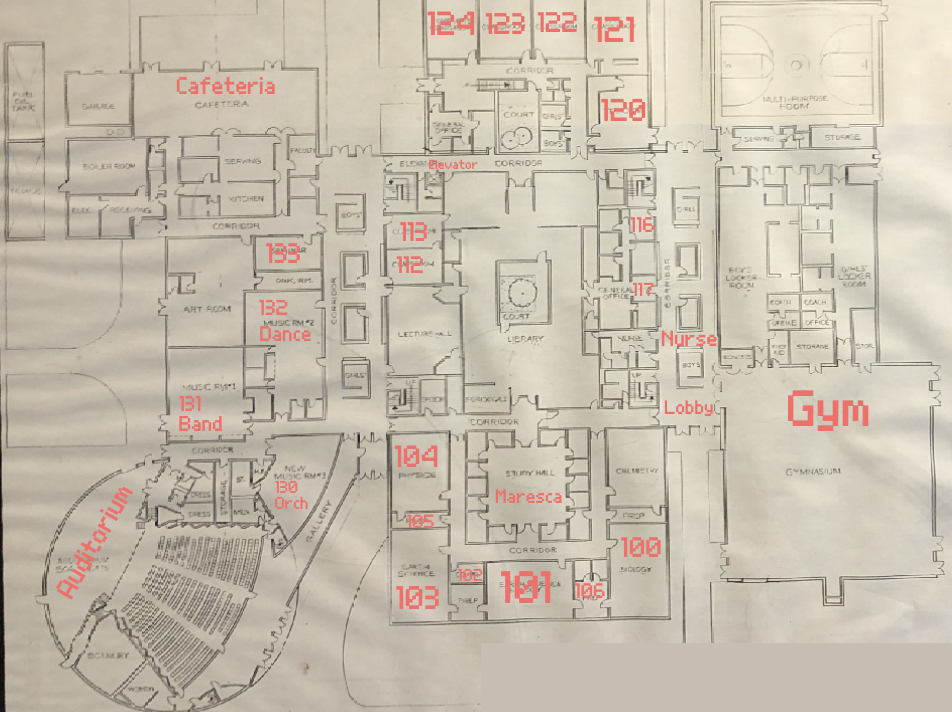
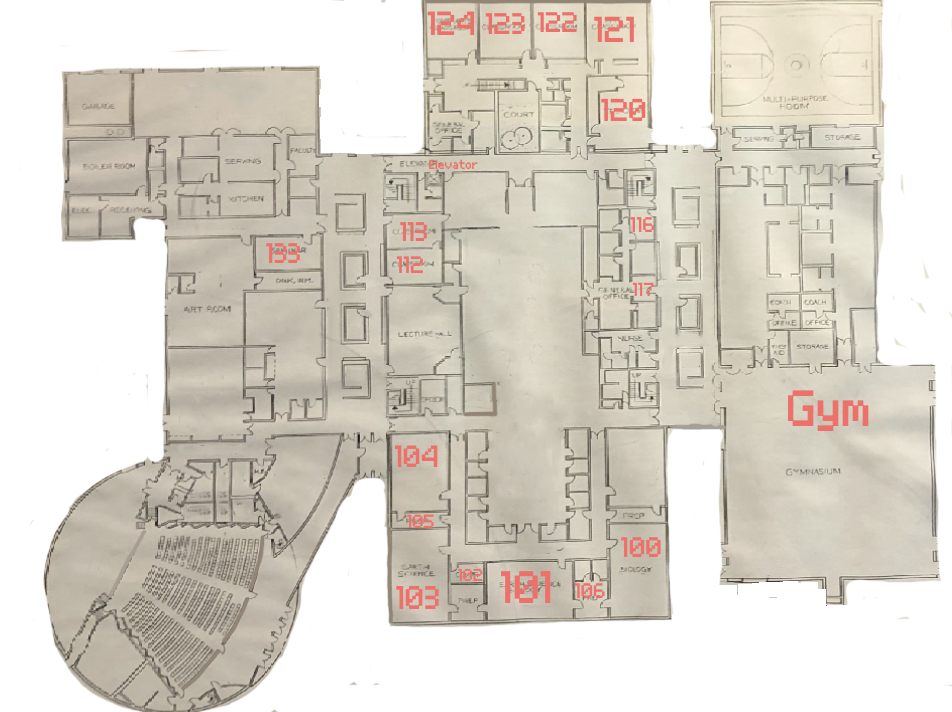
Add files via upload

diff --git a/query3.html b/query3.html
@@ -1,0 +1,105 @@
+<!DOCTYPE html>
+<html>
+    <head>
+        <title>Room Finder</title>
+        <link href = "styles.css" rel="stylesheet">        
+        <style>
+            #query {
+                background-color: rgb(220, 131, 15);
+                padding: 15px;
+                border-radius: 10px;
+                box-shadow: 0 10px 6px -1px rgba(0, 0, 0, 0.1);
+                text-align: center;
+                vertical-align: middle;
+            }
+            .room {
+                background-color: rgb(127, 49, 4);
+                margin-left: 20vw;
+                margin-right: 20vw;
+                margin-bottom: 20px;
+                padding: 5px;
+                border-radius: 30px;
+                box-shadow: 0 10px 6px -1px rgba(0, 0, 0, 0.1);
+            }
+            a {
+                color: white;
+            }
+            body {
+                padding: 10px;
+            }
+            #par {
+                padding-left: 20px;
+                padding-right: 20px;
+            }
+            #parr {
+                padding-left: 25px;
+                padding-right: 25px;
+            }
+            #placeholder_results {
+                background-color: rgb(79, 43, 13);
+                padding: 10px;
+                border-radius: 36px;
+            }
+        </style>
+        <meta name="viewport" content="width=device-width, initial-scale=1.0">
+    </head>
+    <body>
+        <div id="header"></div>
+        <div id="space"></div>
+        <br><br><br>
+        <h1 id="parr">Enter your destination</h1>
+        <h3 id="par">If your destination is on a different floor from your current location, please locate a set of stairs or an elevator to reach your desired floor.</h3>
+        <span id="searchTrigger" class="material-symbols-outlined iconLarge">search</span>
+        <input class="searchbar" id="searchBranch" placeholder="Search Room Finder">
+        <br>
+        <h3>--------</h3>
+        <br>
+        <div id="results"><h3><span id="placeholder_results">Search results will appear here</span></h3></div>
+
+    </body>
+    <script src="main.js"></script>
+    <script>
+        let trigger = document.getElementById("searchTrigger");
+        trigger.onclick = function() {
+            loadSearch();
+        };
+
+        document.getElementById("searchBranch").addEventListener("keydown", function(event) {
+            if (event.key === "Enter") {
+            event.preventDefault();
+            loadSearch();
+            }
+        });
+    </script>
+    <script>
+        function loadSearch() {
+            document.getElementById("results").innerHTML = "";
+            let queryVal = document.getElementById("searchBranch").value;
+            fetch('rooms.json')
+            .then(response => response.json())
+            .then(function(data) {
+                let content = "";
+                let floor = sessionStorage.getItem("locFloor");
+                for (let i = 0; i < data.length; i++) {
+                    if (data[i].name.toUpperCase().includes(queryVal.toUpperCase()) && data[i].floor == floor) {
+                        content += "k";
+                        document.getElementById("results").innerHTML += 
+                        `<div class="room">
+                            <h3>${data[i].name}</h3>
+                            <h5><span>Floor ${data[i].floor}</span></h5>
+                            <span id="goTrigger_${data[i].id}" class="material-symbols-outlined iconLarge2">check</span></div>`;
+                        setTimeout(function() {document.getElementById(`goTrigger_${data[i].id}`).onclick = function() {
+                            sessionStorage.setItem("loc1", `${data[i].id}`);
+                            sessionStorage.removeItem("searchQuery");
+                            window.location.href=`floor${data[i].floor}.html`;
+                        }}, 500);
+                    }
+                }
+
+                if (content.length == 0) {
+                    document.getElementById("results").innerHTML = "<h3>No results matched your search query, try again.</h3>";
+                }
+            })
+        }
+    </script>
+</html>

diff --git a/query.html b/query.html
@@ -34,8 +34,10 @@
         <h1>Searching:</h1>
         <h1><span id="query"></span></h1>
         <br>
-        <h3>Locate on Map <span class="material-symbols-outlined iconLarge2-label">pin_drop</span></h3>
-        <h3>Walk to Location <span class="material-symbols-outlined iconLarge2-label">directions_walk</span></h3>
+        <h3>Locate on Map: <span class="material-symbols-outlined iconLarge2-label">pin_drop</span></h3>
+        <h3>Walk to Location: <span class="material-symbols-outlined iconLarge2-label">directions_walk</span></h3>
+        <h3>Set to My Location: <span class="material-symbols-outlined iconLarge2-label">my_location</span></h3>
+
         <h3>--------</h3>
         <br>
         <div id="results"><h3>Loading...</h3></div>
@@ -62,6 +64,7 @@
                         <h5><span>Floor ${data[i].floor}</span></h5>
                          <span id="searchTrigger_${data[i].id}" class="material-symbols-outlined iconLarge2">pin_drop</span>
                          <span id="goTrigger_${data[i].id}" class="material-symbols-outlined iconLarge2">directions_walk</span>
+                         <span id="goTrigger2_${data[i].id}" class="material-symbols-outlined iconLarge2">my_location</span>
                         </div>`;
                     setTimeout(function() {document.getElementById(`searchTrigger_${data[i].id}`).onclick = function() {
                         sessionStorage.setItem("mapMode", "locate");
@@ -73,7 +76,13 @@
                         sessionStorage.setItem("loc1", `${data[i].id}`);
                         sessionStorage.setItem("locFloor", `${data[i].floor}`);
                         window.location.href=`query2.html`;
-                    }}, 1000);
+                    }}, 600);
+                    setTimeout(function() {document.getElementById(`goTrigger2_${data[i].id}`).onclick = function() {
+                        sessionStorage.setItem("mapMode", "pathfind");
+                        sessionStorage.setItem("loc2", `${data[i].id}`);
+                        sessionStorage.setItem("locFloor", `${data[i].floor}`);
+                        window.location.href=`query3.html`;
+                    }}, 600);
                 }
             }
 

diff --git a/floor1.html b/floor1.html
@@ -62,21 +62,22 @@
         shadowSize: [41, 41]
     });
 
-        const imageWidth = 314;
-        const imageHeight = 702;
+        // 952 × 712 pixels
+        const imageWidth = 952;
+        const imageHeight = 712;
 
         const bounds = [[0, 0], [imageHeight, imageWidth]];
 
         const map = L.map('map', {
             crs: L.CRS.Simple,
             minZoom: 0,
-            maxZoom: 2,
+            maxZoom: 0.75,
             maxBounds: bounds,
             maxBoundsViscosity: 1.0,
         });
 
 
-        const image = L.imageOverlay('images/map2.png', bounds).addTo(map);
+        const image = L.imageOverlay('images/map1.png', bounds).addTo(map);
         map.fitBounds(bounds);
 
 
@@ -90,12 +91,12 @@
                     let corrID = sessionStorage.getItem("loc1");
                     for (let i = 0; i < data.length; i++) {
                         //Leaflet uses [Y, X] order
-                        if (data[i].floor == 2 && data[i].id == corrID) {
+                        if (data[i].floor == 1 && data[i].id == corrID) {
                             L.marker([702-data[i].coordY, data[i].coordX-300], { icon: greenIcon })
                             .addTo(map)
                             .bindPopup(data[i].name);
                         }
-                        else if (data[i].floor == 2) {
+                        else if (data[i].floor == 1) {
                             L.marker([702-data[i].coordY, data[i].coordX-300])
                             .addTo(map)
                             .bindPopup(data[i].name);
@@ -111,7 +112,7 @@
                     var loc2 = sessionStorage.getItem("loc2");
                     for (let i = 0; i < data.length; i++) {
                         //Leaflet uses Y, X order!!!!
-                        if (data[i].floor == 2) {
+                        if (data[i].floor == 1)  {
                             if (data[i].id == loc1) {
                                 L.marker([702-data[i].coordY, data[i].coordX-300], { icon: greenIcon })
                                 .addTo(map)

diff --git a/styles.css b/styles.css
@@ -1,5 +1,5 @@
 @import url("https://fonts.googleapis.com/css2?family=Montserrat:wght@100..800");
-@import url("https://fonts.googleapis.com/css2?family=Material+Symbols+Outlined:opsz,wght,FILL,GRAD@20..48,600,0..1,-50..200&icon_names=check,chevron_left,directions_walk,pin_drop,search");
+@import url("https://fonts.googleapis.com/css2?family=Material+Symbols+Outlined:opsz,wght,FILL,GRAD@20..48,600,0..1,-50..200&icon_names=check,chevron_left,directions_walk,my_location,pin_drop,search");
 
 h1 {
     font-family: Rockwell, Montserrat;
@@ -75,6 +75,10 @@ body {
     user-select: none;
     -webkit-user-select: none;
     cursor: pointer;
+    transition: transform 1s;
+}
+.iconLarge:hover {
+    transform: rotate(10deg);
 }
 .iconLarge2 {
     background-color: rgb(72, 34, 8);
@@ -87,9 +91,13 @@ body {
     user-select: none;
     -webkit-user-select: none;
     cursor: pointer;
+    transition: transform 1s;
+}
+.iconLarge2:hover {
+    transform: rotate(-20deg);
 }
 .iconLarge2-label {
-    background-color: rgb(72, 34, 8);
+    background-color: none;
     padding: 6px;
     margin: 5px;
     border-radius: 360px;
@@ -98,5 +106,6 @@ body {
     color: rgb(244, 244, 247);
     user-select: none;
     -webkit-user-select: none;
-    box-shadow: 0 10px 4px -1px rgba(0, 0, 0, 0.1);
+
+    transform-origin: center;
 }
